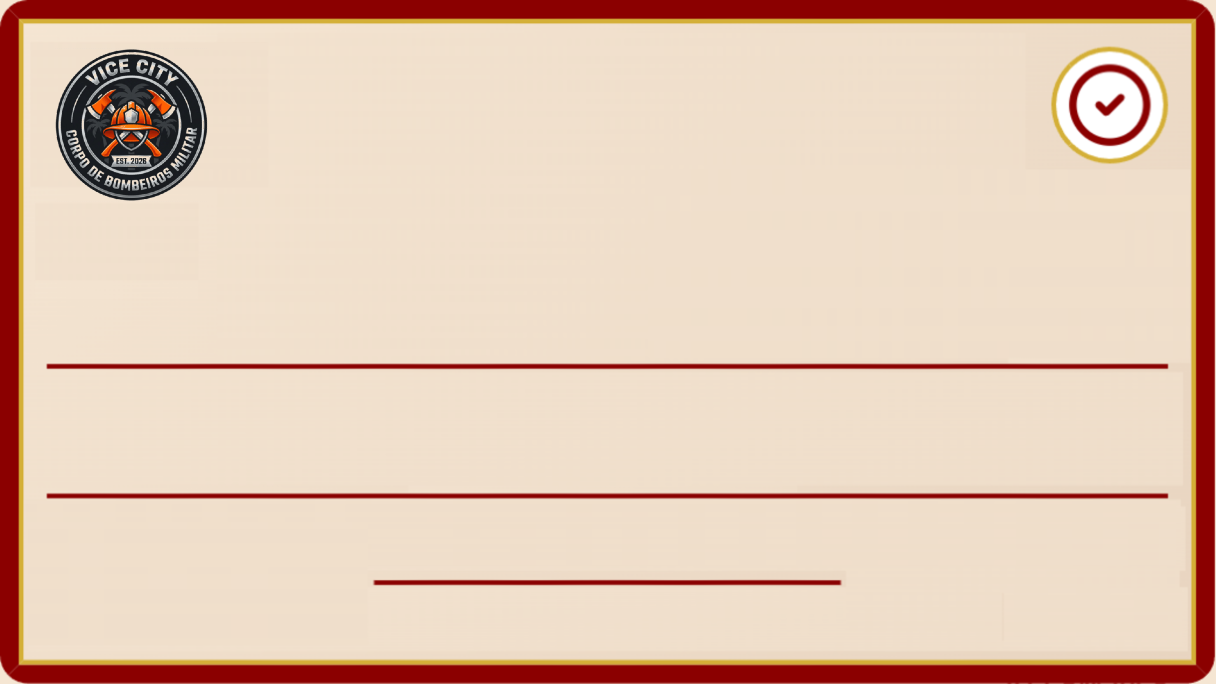
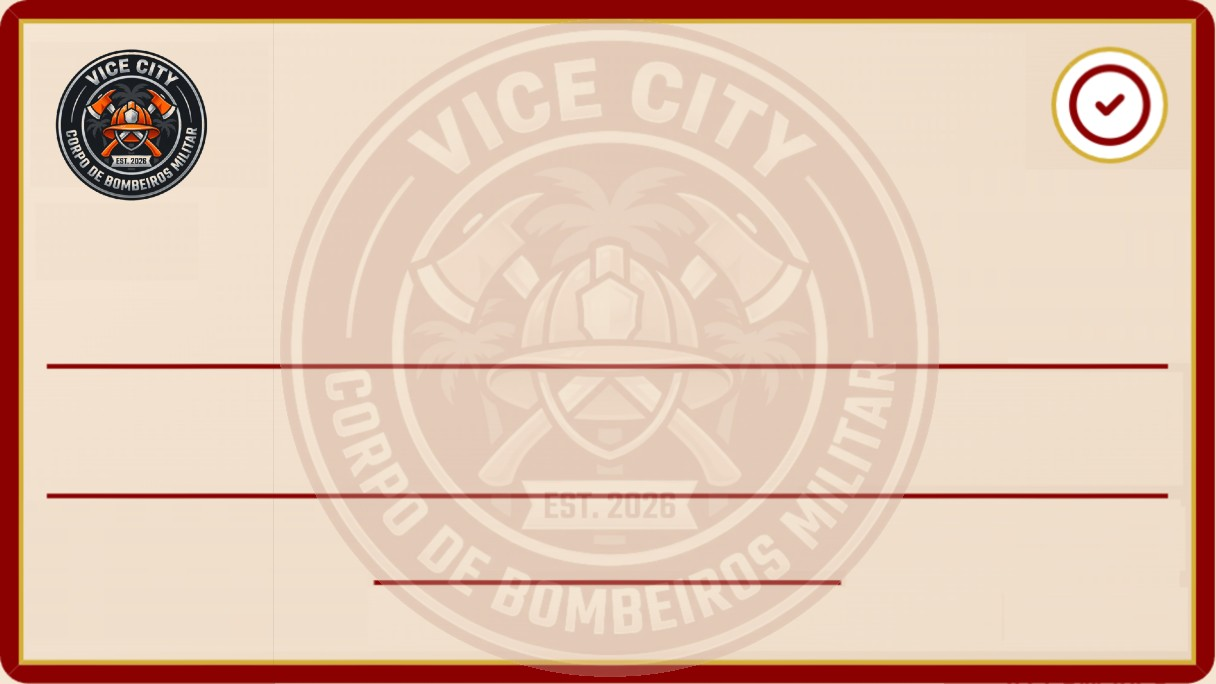
Checkpoint: Substituição do template do certificado por design premium com bordas douradas, marca d'água central do Vice City e linhas decorativas

diff --git a/todo.md b/todo.md
@@ -2059,4 +2059,10 @@
 ## Ajuste de Posição do Título CERTIFICADO
 - [x] Mover "CERTIFICADO" 40px para cima (210→170px)
 - [x] Reiniciar servidor
+- [x] Salvar checkpoint
+
+## Substituição do Template do Certificado
+- [x] Localizar arquivo certificate-template.png atual (2 locais encontrados)
+- [x] Substituir pelo novo template fornecido
+- [x] Reiniciar servidor
 - [ ] Salvar checkpoint
